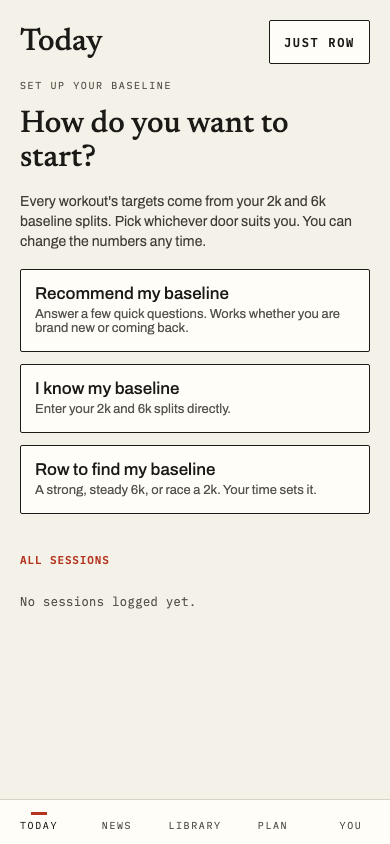
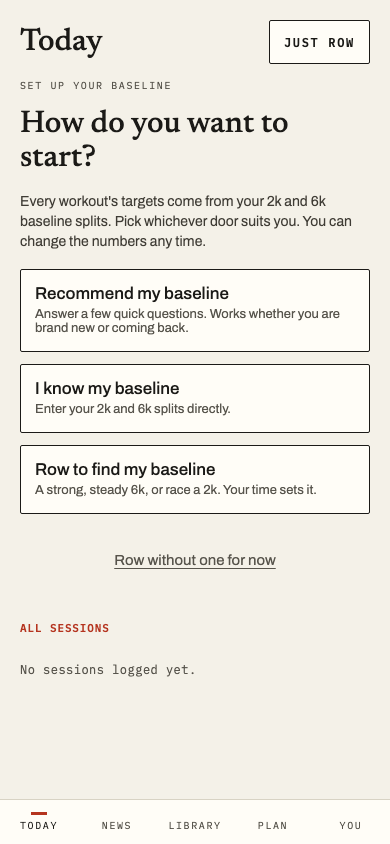
Phase RW PR C: the walk (skip, reload, come back, reload), the detail leg, the reset leg, and the today-skipped capture
Claude-Session: https://claude.ai/code/session_016fUCCnZbTuwB5r6vkikG9J

diff --git a/app/e2e/design.spec.ts b/app/e2e/design.spec.ts
@@ -1143,9 +1143,11 @@ test.describe("workout detail screen (no baselines: words, not a guard)", () => 
     expect(await caption.evaluate((el) => getComputedStyle(el).color)).toBe(
       "rgb(87, 84, 76)",
     ); // --ink-3, 6.69:1 on --page
+    // Phase RW PR C: a button, not a link — it clears the stored skip
+    // before it navigates, so a skipped rower lands on the doors card.
     await expect(
-      caption.getByRole("link", { name: "Set one up" }),
-    ).toHaveAttribute("href", "/today");
+      caption.getByRole("button", { name: "Set one up" }),
+    ).toBeVisible();
     await expect(page.locator(".step-row-no-target")).toHaveCount(0);
 
     await assertTapTargets(page);
@@ -11752,5 +11754,91 @@ test.describe("Library no-baseline caption (Phase RW PR A)", () => {
     expect(styles.ink3).toBe("#57544c");
     expect(styles.color).toBe("rgb(87, 84, 76)"); // --ink-3, 6.69:1 on --page
     expect(styles.fontSize).toBe("13px");
+  });
+});
+
+// Phase RW PR C: the stored skip, walked end to end. The RELOADS are the
+// point — they are the only oracle in this PR for "the choice is on the
+// server, not in component state" (every client test mocks the hook).
+test.describe("the stored skip (Phase RW PR C)", () => {
+  test("skip, reload, come back, reload: the doors follow the stored flag", async ({
+    page,
+  }) => {
+    await signInViaBackdoor(page, {
+      email: "rw-skip-walk@e2e.test",
+      name: "Skip Walk Tester",
+    });
+    await page.goto("/today");
+    await expect(page.locator(".doorscard")).toBeVisible();
+
+    await page.getByRole("button", { name: "Row without one for now" }).click();
+    await expect(page.locator(".doorscard")).toHaveCount(0);
+    await expect(page.getByText("NO BASELINE SET")).toBeVisible();
+    await expect(
+      page.getByText("~ times are estimates until you set a baseline"),
+    ).toBeVisible();
+
+    // Server-side, not component state.
+    await page.reload();
+    await expect(page.getByText("NO BASELINE SET")).toBeVisible();
+    await expect(page.locator(".doorscard")).toHaveCount(0);
+
+    await page.getByRole("button", { name: "Set one up" }).click();
+    await expect(page.locator(".doorscard")).toBeVisible();
+    await page.reload();
+    await expect(page.locator(".doorscard")).toBeVisible();
+  });
+
+  test("the workout detail's Set one up clears the skip on its way, so Today shows the DOORS", async ({
+    page,
+  }) => {
+    await signInViaBackdoor(page, {
+      email: "rw-skip-detail@e2e.test",
+      name: "Skip Detail Tester",
+    });
+    await page.goto("/today");
+    await page.getByRole("button", { name: "Row without one for now" }).click();
+    await expect(page.getByText("NO BASELINE SET")).toBeVisible();
+
+    // Any pace-bearing workout carries the caption.
+    await page.goto("/library");
+    await page.getByPlaceholder("SEARCH BY NAME").fill("Laminar");
+    await page.locator(".workout-row").first().click();
+    await expect(page.locator(".workout-detail-caption")).toBeVisible();
+    await page
+      .locator(".workout-detail-caption")
+      .getByRole("button", { name: "Set one up" })
+      .click();
+
+    await expect(page).toHaveURL(/\/today$/);
+    // The doors, NOT a second "Set one up" row.
+    await expect(page.locator(".doorscard")).toBeVisible();
+    await expect(page.getByText("NO BASELINE SET")).toHaveCount(0);
+  });
+
+  test("resetting the baselines brings the doors back", async ({ page }) => {
+    await signInViaBackdoor(page, {
+      email: "rw-skip-reset@e2e.test",
+      name: "Skip Reset Tester",
+    });
+    const put = await page.evaluate(async () => {
+      const res = await fetch("/api/baselines", {
+        method: "PUT",
+        headers: { "Content-Type": "application/json" },
+        body: JSON.stringify({ k2Seconds: 112, k6Seconds: 122 }),
+      });
+      return res.ok;
+    });
+    expect(put).toBe(true);
+    await page.goto("/today");
+    await expect(page.locator(".doorscard")).toHaveCount(0);
+    await expect(page.getByText("NO BASELINE SET")).toHaveCount(0);
+
+    await page.goto("/you/baselines");
+    await page.getByRole("button", { name: "Reset baseline setup" }).click();
+    await page.getByRole("button", { name: "Reset baseline setup" }).click();
+
+    await page.goto("/today");
+    await expect(page.locator(".doorscard")).toBeVisible();
   });
 });

diff --git a/app/e2e/screenshots.spec.ts b/app/e2e/screenshots.spec.ts
@@ -777,6 +777,24 @@ test("today-onboarding", async ({ page }) => {
   });
 });
 
+// Phase RW PR C: the same screen after "Row without one for now" — the
+// suggestion apparatus returns under one row that keeps the doors a tap
+// away. Gate 0's approved render is docs/design/rw-gate0/today-skipped.png.
+test("today-skipped", async ({ page }) => {
+  await signInViaBackdoor(page, {
+    email: "screenshots-today-skipped@e2e.test",
+    name: "Screenshot Tester",
+  });
+  await page.goto("/today");
+  await page.locator(".doorscard").waitFor();
+  await page.getByRole("button", { name: "Row without one for now" }).click();
+  await page.locator(".today-nobaseline-row").waitFor();
+  await page.locator(".today-card").waitFor();
+  await page.screenshot({
+    path: path.join(SCREENSHOTS_DIR, "today-skipped.png"),
+  });
+});
+
 // Phase BL PR C: the door flow screens (canvas Question1/Recommendation/
 // Experienced/RowPath), each in its fullest real state — the
 // questionnaire with an option genuinely selected, the recommendation
